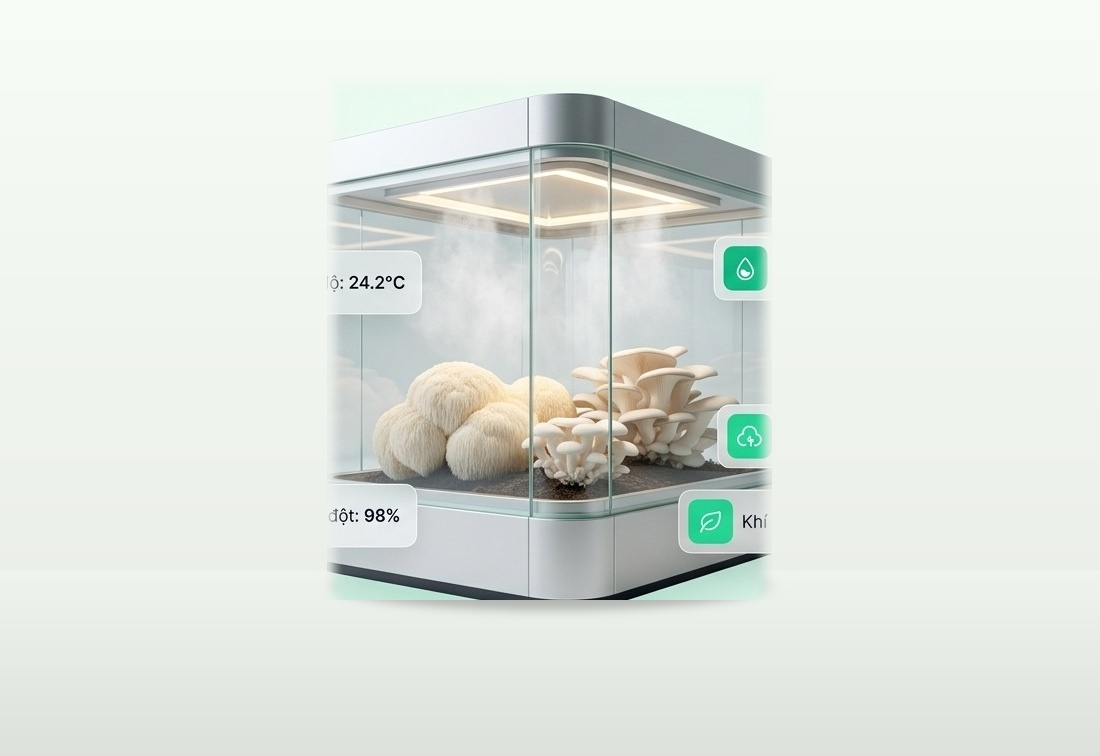
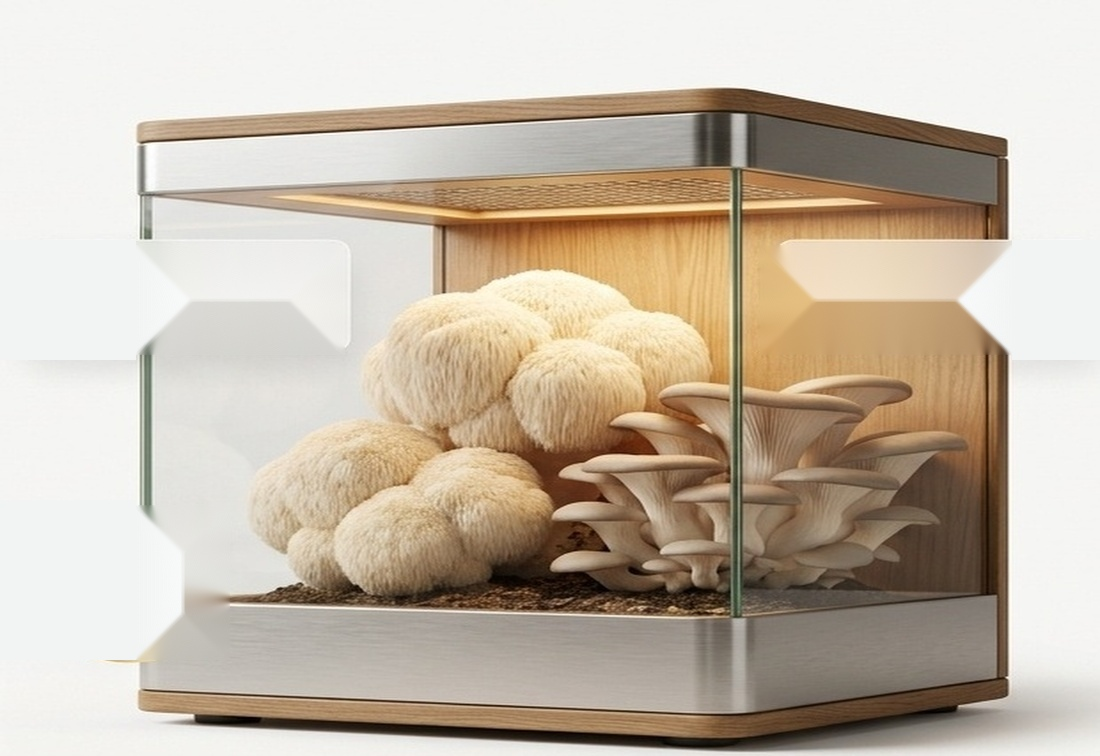
fix(landing): khoi phuc buong kinh 3D Nau Vang Champagne am dong bo tong mau cafe website va tay sach chu loi

diff --git a/frontend/src/components/customer/TimelapseSlider.tsx b/frontend/src/components/customer/TimelapseSlider.tsx
@@ -22,7 +22,7 @@ export default function TimelapseSlider() {
       return {
         stageName: 'Giai Đoạn 2: Kích Ẩm & Hình Thành Quả Thể',
         statusText: 'Các mầm nấm (ghim nấm) nhú đều, bung tán đồng loạt dưới luồng sương siêu âm đối lưu.',
-        image: '/images/hero-chamber-fullbleed-white.jpg',
+        image: '/images/hero-chamber-warm-champagne.jpg',
         badge: 'Phát Triển Mũ Nấm',
         metrics: 'Độ ẩm: 92% • T: 23.8°C • CO₂: 620 ppm',
       };

diff --git a/frontend/src/components/landing/HeroSection.tsx b/frontend/src/components/landing/HeroSection.tsx
@@ -21,7 +21,7 @@ const chamberViews: ChamberView[] = [
     name: "Buồng Nuôi Thông Minh 3D",
     shortName: "Buồng Kính 3D",
     badge: "Buồng Nuôi ISO Class 5 • Cảm Biến IoT 24/7",
-    image: "/images/hero-chamber-fullbleed-white.jpg",
+    image: "/images/hero-chamber-warm-champagne.jpg",
     temp: "24.2°C",
     hum: "92%",
     co2: "620 ppm",

diff --git a/frontend/src/components/customer/CameraFeed.tsx b/frontend/src/components/customer/CameraFeed.tsx
@@ -16,7 +16,7 @@ export default function CameraFeed() {
       id: 'cam-01',
       name: 'Toàn Cảnh Buồng Nuôi',
       badge: 'Góc Rộng 120°',
-      image: '/images/hero-chamber-fullbleed-white.jpg',
+      image: '/images/hero-chamber-warm-champagne.jpg',
       scale: { '1x': 'scale-100', '2x': 'scale-125', '4x': 'scale-150' },
     },
     {
